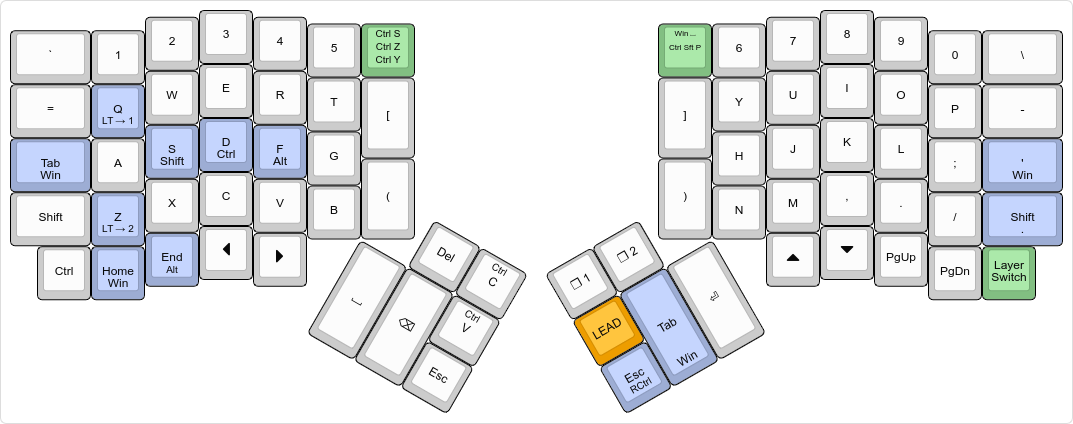
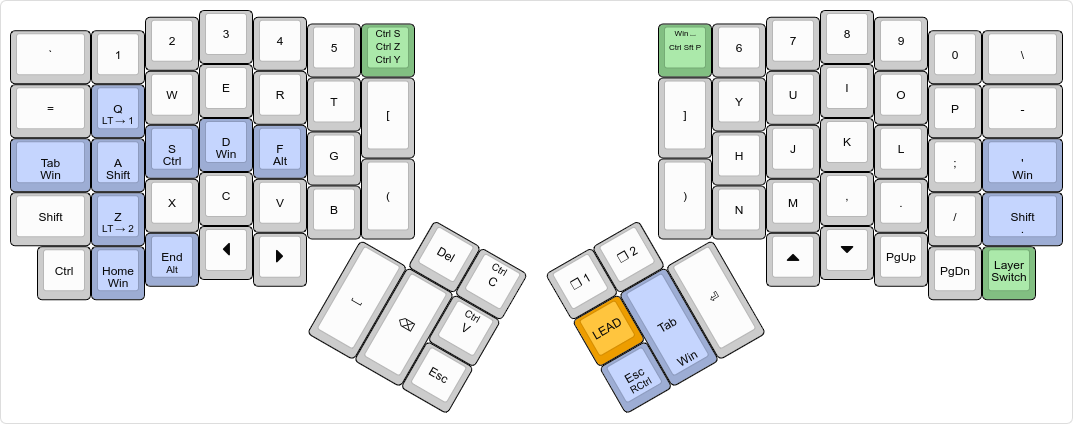
Reverted mod tap keys for left hand home row.

Changed region(s): [[0.0615, 0.3066, 0.1845, 0.4599], [0.1845, 0.3373, 0.2153, 0.3679]]

diff --git a/keymap.c b/keymap.c
@@ -46,7 +46,7 @@ const uint16_t PROGMEM keymaps[][MATRIX_ROWS][MATRIX_COLS] = {
         // left hand
         KC_GRAVE, KC_1, KC_2, KC_3, KC_4, KC_5, TD(TD_SAVE_UNDO_REDO),
         KC_EQUAL, LT(1, KC_Q), KC_W, KC_E, KC_R, KC_T, KC_LBRACKET,
-        GUI_T(KC_TAB), KC_A, SFT_T(KC_S), CTL_T(KC_D), ALT_T(KC_F), KC_G,
+        GUI_T(KC_TAB), SFT_T(KC_A), CTL_T(KC_S), ALT_T(KC_D), GUI_T(KC_F), KC_G,
         KC_LSFT, LT(2, KC_Z), KC_X, KC_C, KC_V, KC_B, KC_LPRN,
         KC_LCTL, GUI_T(KC_HOME), ALT_T(KC_END), KC_LEFT, KC_RIGHT,
 
